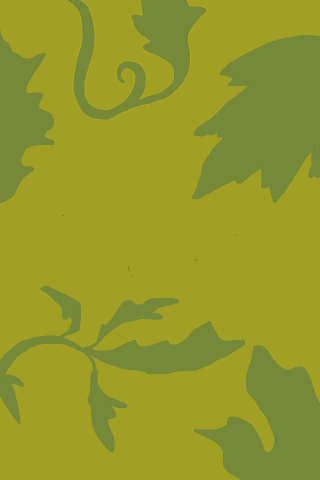
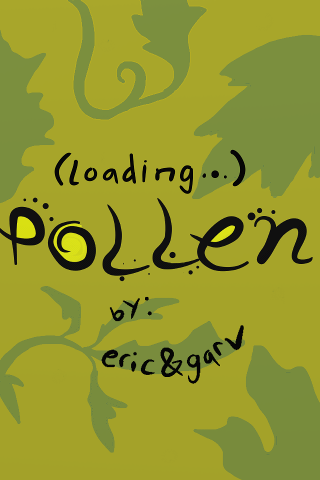
Added load screen

diff --git a/Pollen/MainMenuLayer.m b/Pollen/MainMenuLayer.m
@@ -31,10 +31,10 @@
         //game title
         CCSprite * gameTitle;
         if( UI_USER_INTERFACE_IDIOM() == UIUserInterfaceIdiomPhone ) {
-			gameTitle = [CCSprite spriteWithFile:@"Default.png"];
+			gameTitle = [CCSprite spriteWithFile:@"MainMenu.png"];
 			//background.rotation = 90;
 		} else {
-			gameTitle = [CCSprite spriteWithFile:@"Default-Landscape~ipad.png"];
+			gameTitle = [CCSprite spriteWithFile:@"MainMenu-Landscape~ipad.png"];
 		}
         gameTitle.position = ccp(size.width/2, size.height/2);
         gameTitle.scale = 1;
@@ -211,13 +211,16 @@
 {
     CGSize size = [[CCDirector sharedDirector] winSize];
     float scaleFactor = size.height/size.width;
-    float dur1 = [GameUtility randDub:.6 :.9];
-    float dur2 = dur1-.2;
-    float dur3 = dur2-.1;
-    CCMoveBy * down1 =[CCMoveBy actionWithDuration:dur1 position:CGPointMake(0, -6*scaleFactor)];
-    CCMoveBy * down2 =[CCMoveBy actionWithDuration:dur2 position:CGPointMake(0, -2.75*scaleFactor)];
-    CCMoveBy * down3 =[CCMoveBy actionWithDuration:dur3 position:CGPointMake(0, -1*scaleFactor)];
-    id seq = [CCSequence actions: down1,down2,down3,[down3 reverse],[down2 reverse],[down1 reverse],nil];
+    float dur1 = [GameUtility randDub:.3 :.45];
+    float dur2 = dur1-.1;
+    float dur3 = dur2-.05;
+    
+    CCMoveBy * down00 =[CCMoveBy actionWithDuration:dur3 position:CGPointMake(0, -.5*scaleFactor)];
+    CCMoveBy * down0 =[CCMoveBy actionWithDuration:dur2 position:CGPointMake(0, -1.3*scaleFactor)];
+    CCMoveBy * down1 =[CCMoveBy actionWithDuration:dur1 position:CGPointMake(0, -3*scaleFactor)];
+    CCMoveBy * down2 =[CCMoveBy actionWithDuration:dur2 position:CGPointMake(0, -1.3*scaleFactor)];
+    CCMoveBy * down3 =[CCMoveBy actionWithDuration:dur3 position:CGPointMake(0, -.5*scaleFactor)];
+    id seq = [CCSequence actions: down00, down0, down1,down2,down3,[down3 reverse],[down2 reverse],[down1 reverse], [down0 reverse], [down00 reverse], nil];
     id repeat = [CCRepeatForever actionWithAction:seq];
     
     [sprite runAction:repeat];
